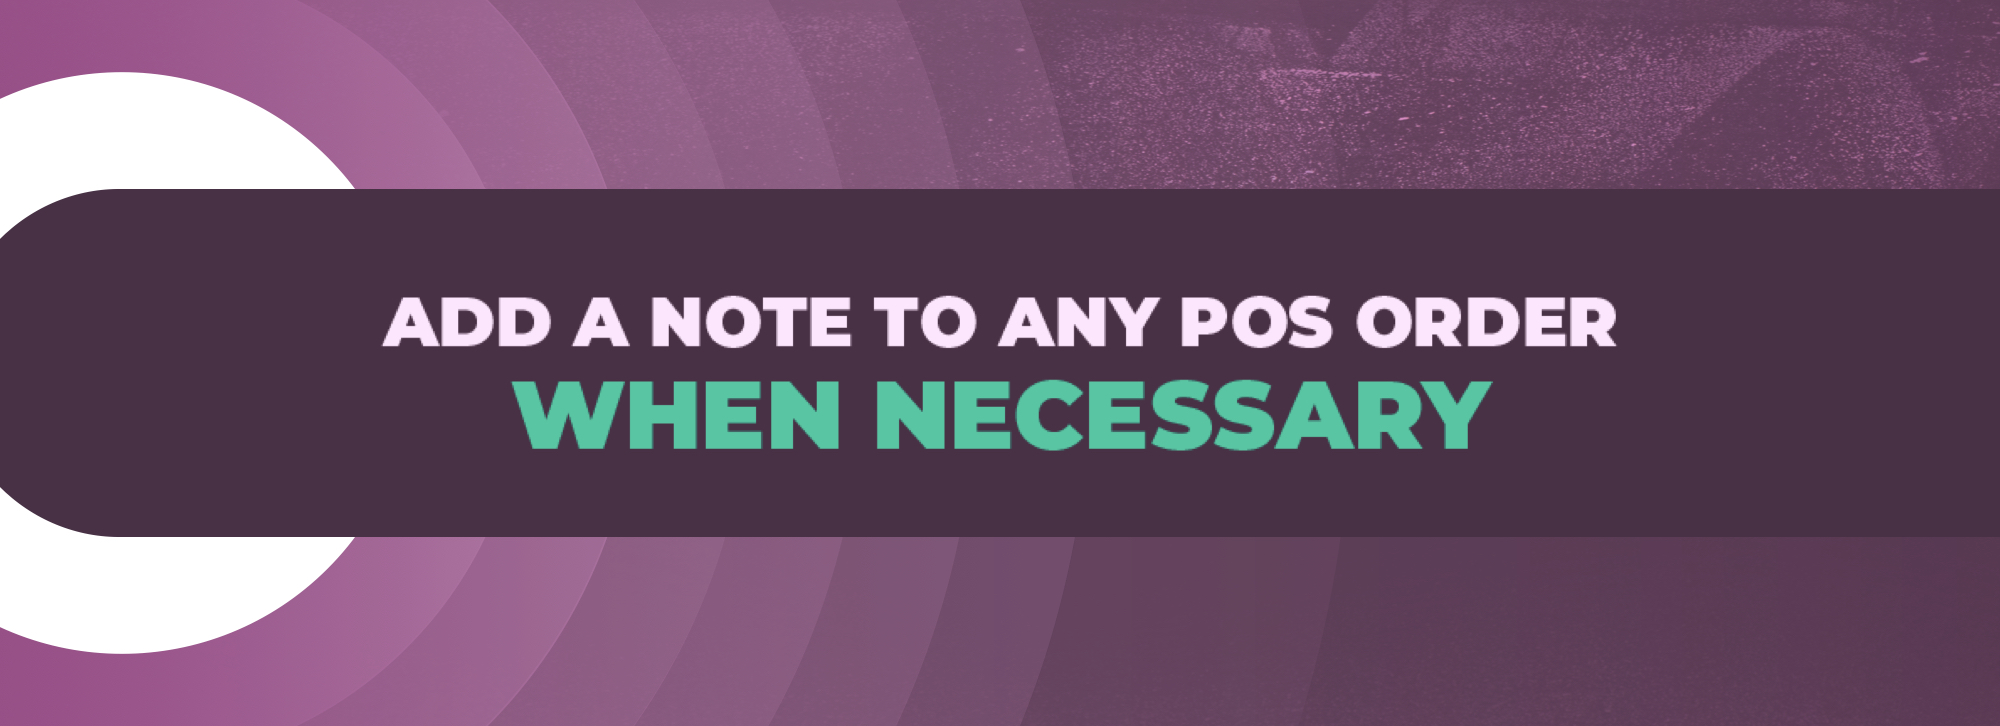
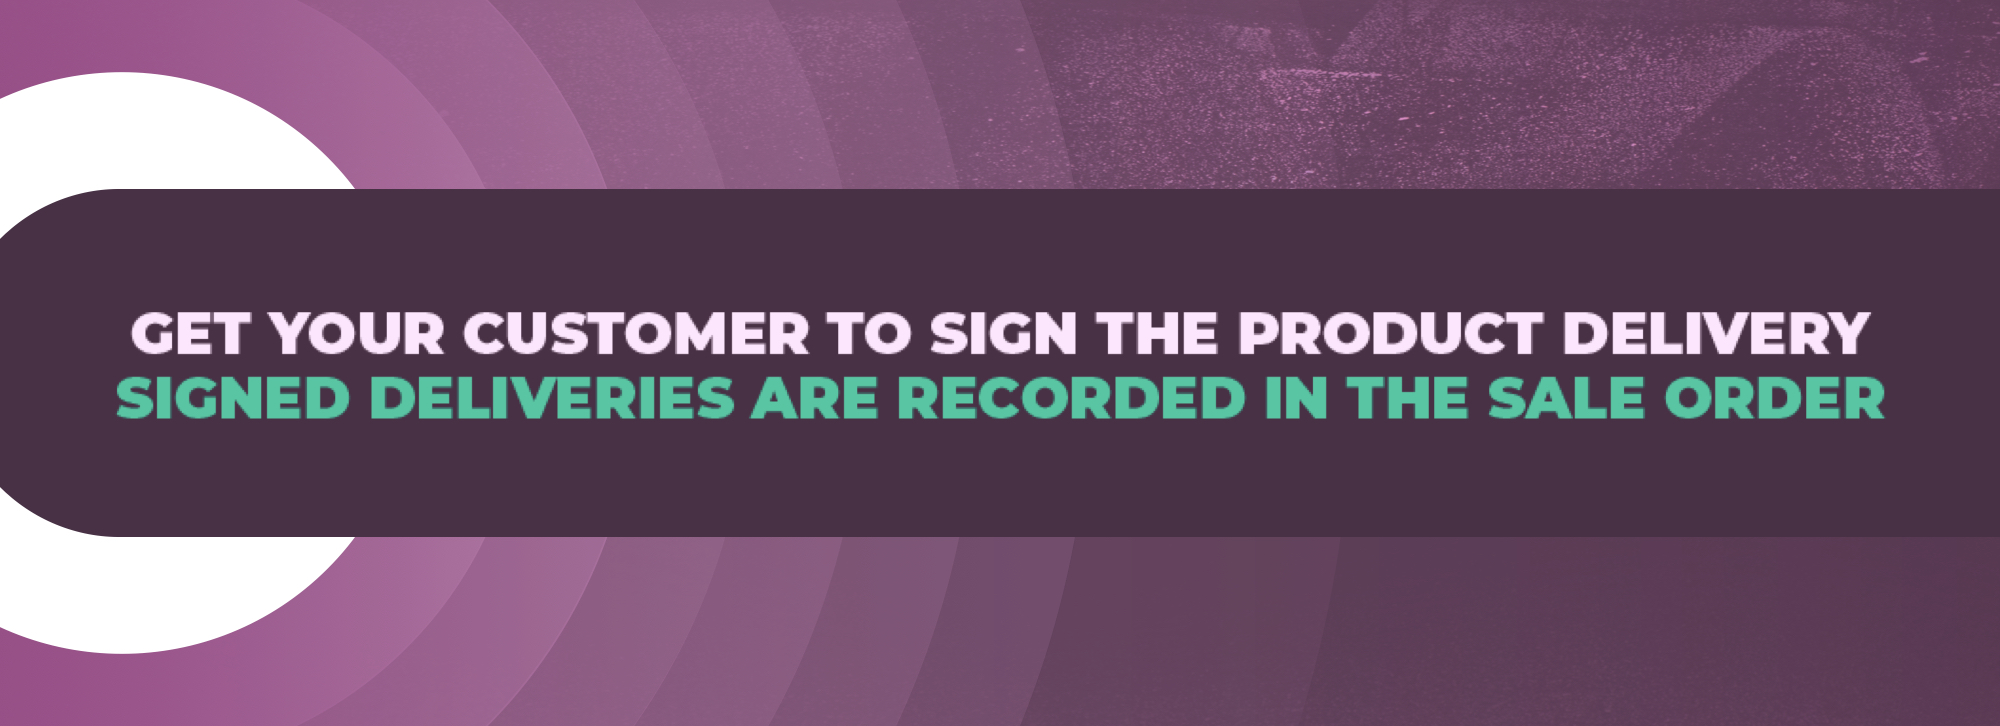
asddfdsf

Changed region(s): [[0.062, 0.5152, 0.961, 0.6364], [0.062, 0.3939, 0.93, 0.4848]]

diff --git a/7d_pos_test/static/description/index.html b/7d_pos_test/static/description/index.html
@@ -82,10 +82,18 @@
           FEATURES
      </h2>
      <div
-          style="grid-column: 1/3;background-color: #f6edf3; border-radius: 8px; padding: 20px; box-shadow: 0px 4px 8px rgba(0, 0, 0, 0.1); margin: 20px;">
+          style="background-color: #f6edf3; border-radius: 8px; padding: 20px; box-shadow: 0px 4px 8px rgba(0, 0, 0, 0.1); margin: 20px;">
           <img src="images/features-1.png" style="width: 90px; padding: 10px 0;" />
-          <h2 style="font-size: 20px; margin-bottom: 10px;">Allows you to Log Notes on a POS Sale Order Form</h2>
+          <h2 style="font-size: 20px; margin-bottom: 10px;">Validates the delivery by obtaining customers’
+               signatures for their package delivered</h2>
           <!-- <p>text1111111.</p> -->
+     </div>
+     <div
+          style="background-color: #f6edf3; border-radius: 8px; padding: 20px; box-shadow: 0px 4px 8px rgba(0, 0, 0, 0.1); margin: 20px;">
+          <img src="images/features-2.png" style="width: 90px; padding: 10px 0;" />
+          <h2 style="font-size: 20px; margin-bottom: 10px;">Records the signed delivery in the sale order
+          </h2>
+          <!-- <p>text22222.</p> -->
      </div>
 </section>
 <!-- ------------------------------------------------------------------------------------------ -->
@@ -112,6 +120,7 @@
      </div>
 </section>
 <!-- ------------------------------------------------------------------------------------------ -->
+
 
 <!----------------------- images Section ------------------------------------------------>
 <!-- <section style="
